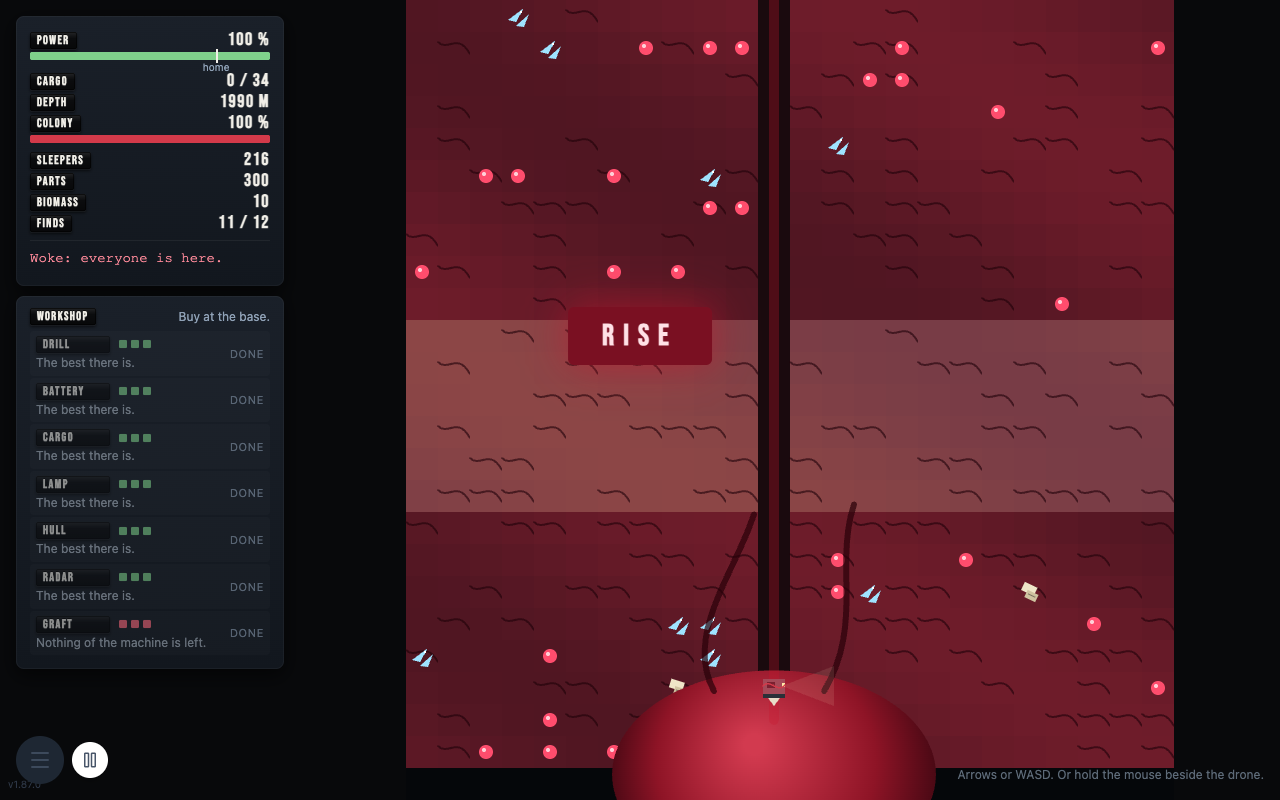
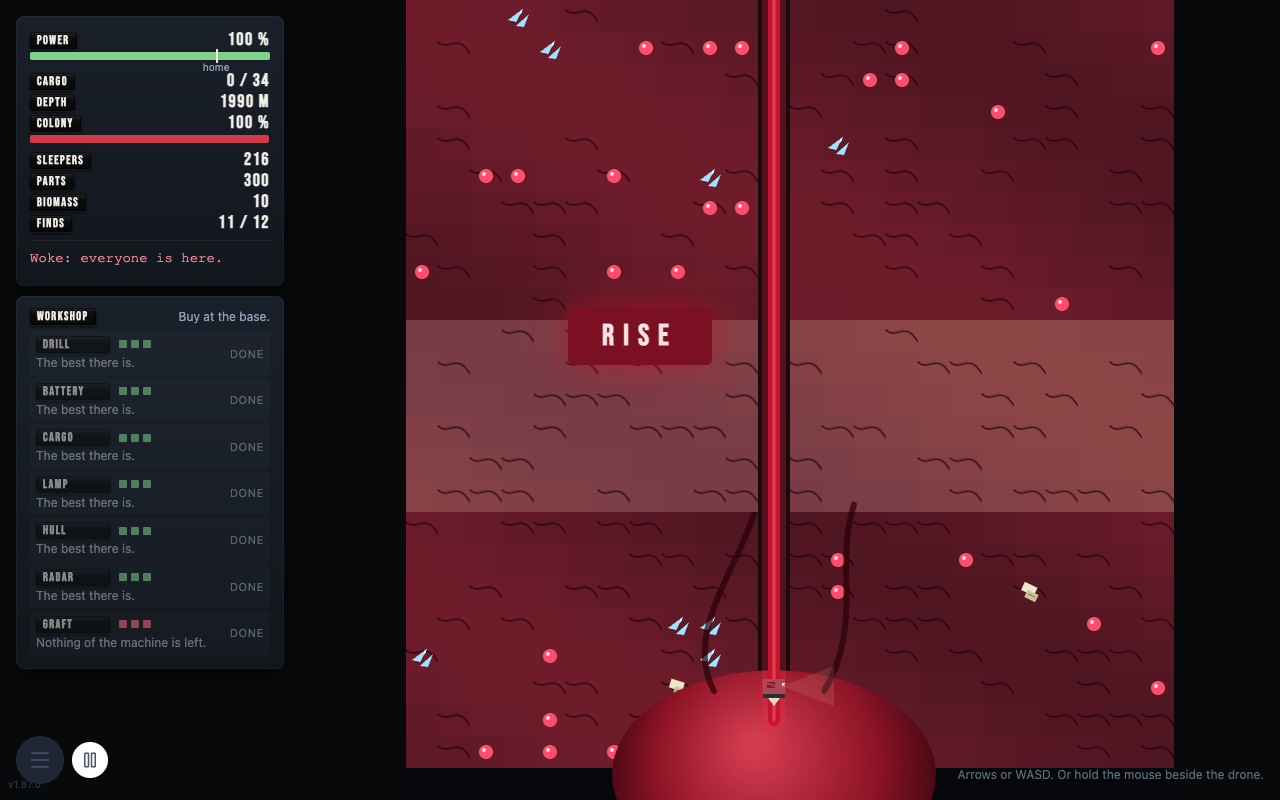
dig: the ending shows the pods emptying and the band down the shaft, the way up named from a side tunnel, colony drain doubles every 400 s

Changed region(s): [[0.3125, 0.0, 0.9375, 0.9688], [0.3125, 0.6562, 0.5312, 0.9688], [0.3125, 0.3125, 0.375, 0.4062]]

diff --git a/src/phase4d/render.js b/src/phase4d/render.js
@@ -73,9 +73,19 @@ export function createRenderer(canvas) {
         r.originX = Math.round(left + Math.max(0, (vw - left - W * TS) / 2));
         const p = dronePos(s);
         // the camera: the drone a little above the middle; the sky shown at the top
-        const want = Math.max(-8 * TS, Math.min((H + 1) * TS - vh, p.y * TS - vh * 0.42));
+        // at the end the camera goes up to the pods, then follows the red band down to the heart
+        let focusY = p.y;
+        if (s.ended) {
+            if (r.ending < 2.6) focusY = -3;
+            else {
+                const k = Math.min(1, (r.ending - 2.6) / 6);
+                focusY = -1 + (p.y + 1) * k;
+            }
+        }
+        const want = Math.max(-8 * TS, Math.min((H + 1) * TS - vh, focusY * TS - vh * 0.42));
         r.cam.y += (want - r.cam.y) * Math.min(1, dt * 6);
-        if (Math.abs(want - r.cam.y) > vh) r.cam.y = want;
+        if (Math.abs(want - r.cam.y) > vh && !(s.ended && r.ending > 2.6)) r.cam.y = want;
+        if (s.ended && r.ending > 2.6) r.cam.y = want;
         const camY = r.cam.y;
         const t = s.time;
         const deep = p.y * 5;                            // metres, roughly
@@ -170,18 +180,19 @@ export function createRenderer(canvas) {
         // ---- the red band at the end, from the base down the way the drone came
         if (s.ended) {
             r.ending += dt;
-            const k = Math.min(1, r.ending / 6);
+            const k = Math.max(0, Math.min(1, (r.ending - 2.6) / 6));
             const pts = [{ x: HOME_X, y: -1 }, ...s.trail.map((i) => ({ x: i % W, y: Math.floor(i / W) })), { x: s.x, y: s.y + 1 }];
             const n = Math.min(pts.length, Math.max(2, Math.ceil(pts.length * k)));
-            ctx.strokeStyle = `rgba(200,20,45,${0.55 + 0.25 * Math.sin(t * 3.2)})`;
-            ctx.lineWidth = 10; ctx.lineCap = 'round'; ctx.lineJoin = 'round';
+            ctx.lineCap = 'round'; ctx.lineJoin = 'round';
             ctx.beginPath();
             for (let i = 0; i < n; i++) {
                 const q = pts[i];
                 const qx = r.originX + q.x * TS + TS / 2, qy = q.y * TS + TS / 2 - camY;
                 if (i === 0) ctx.moveTo(qx, qy); else ctx.lineTo(qx, qy);
             }
-            ctx.stroke();
+            ctx.strokeStyle = 'rgba(255,40,70,0.25)'; ctx.lineWidth = 24; ctx.stroke();
+            ctx.strokeStyle = '#c8142d'; ctx.lineWidth = 12; ctx.stroke();
+            ctx.strokeStyle = `rgba(255,150,165,${(0.35 + 0.35 * Math.max(0, Math.sin(t * 3.2))).toFixed(3)})`; ctx.lineWidth = 3; ctx.stroke();
         }
 
         // ---- the dark: a circle of light around the drone; daylight near the top
@@ -308,7 +319,7 @@ export function createRenderer(canvas) {
         const cols = 24, pitch = 10;   // nine rows
         const wx = bx + (bw - cols * pitch) / 2, wy = top + 14;
         const dark = new Set(s.dark);
-        const emptied = s.ended ? Math.floor(Math.min(1, r.ending / 5) * SLEEPERS) : 0;
+        const emptied = s.ended ? Math.floor(Math.min(1, r.ending / 2.4) * SLEEPERS) : 0;
         for (let i = 0; i < SLEEPERS; i++) {
             const pod = i + 1;
             const cx = wx + (i % cols) * pitch, cy = wy + Math.floor(i / cols) * pitch;

diff --git a/src/phase4d/dig.js b/src/phase4d/dig.js
@@ -56,7 +56,7 @@ export const CHARGE_RATE = 0.6;         // share of the battery per second, at h
 export const UNLOAD_EVERY = 0.08;       // seconds a piece
 // ---- the colony -------------------------------------------------------------------------------
 export const DRAIN_BASE = 1 / 6;        // % a second at the start
-export const DRAIN_GROWS = 600;         // seconds: the drain doubles over this long
+export const DRAIN_GROWS = 400;         // seconds: the drain doubles over this long
 export const POD_EVERY = 3;             // seconds at 0 %
 export const LOST_ON_DEATH = 10;        // % of the reserve
 export const VOICE_FROM = 700;          // metres: below, the mind slips
@@ -221,6 +221,19 @@ function touchHeart(s) {
     say(s, 'Woke: everyone is here.', 'voice', 0);
 }
 
+/** Where the way up is, from a side tunnel: the nearest open tile above along this row's open ground. */
+export function shaftHint(s) {
+    for (let d = 1; d < W; d++) {
+        for (const dir of [-1, 1]) {
+            const x = s.x + dir * d;
+            let open = true;
+            for (let k = s.x + dir; k !== x + dir; k += dir) if (tileAt(s, k, s.y) !== T.AIR) { open = false; break; }
+            if (open && tileAt(s, x, s.y - 1) === T.AIR) return `Up only through open ground. The way up is to the ${dir < 0 ? 'left' : 'right'}.`;
+        }
+    }
+    return 'Up only through open ground.';
+}
+
 /** One try at a direction: start a move or a dig, or say why not. */
 function tryDir(s, dir) {
     const dx = dir === 'left' ? -1 : dir === 'right' ? 1 : 0;
@@ -236,7 +249,7 @@ function tryDir(s, dir) {
         s.act = { kind: 'move', tx, ty, t: 0, dur: MOVE_TIME, cost: MOVE_COST };
         return true;
     }
-    if (dy === -1) { say(s, 'Up only through open ground.', 'line', 8); return false; }
+    if (dy === -1) { say(s, shaftHint(s), 'line', 8); return false; }
     if (t === T.HEART) { touchHeart(s); return true; }
     const gate = gateOf(s, t, ty);
     if (gate) { say(s, gate, 'gate', 3); s.events.push({ type: 'gate' }); return false; }

diff --git a/src/phase4d/dig.test.js b/src/phase4d/dig.test.js
@@ -63,6 +63,15 @@ describe('the rules', () => {
         step(s, 0.05, {});
         expect(s.line.text).toBe('Turn back. Just enough power to fly home.');
     });
+    test('pressing up under rock in a side tunnel says where the way up is', () => {
+        const s = preparedState({ row: 10 });
+        s.y = 10;
+        s.tiles[10 * W + HOME_X + 1] = T.AIR; s.tiles[10 * W + HOME_X + 2] = T.AIR;
+        s.tiles[9 * W + HOME_X + 2] = T.STONE;
+        s.x = HOME_X + 2;
+        step(s, 0.05, { dir: 'up' });
+        expect(s.line.text).toBe('Up only through open ground. The way up is to the left.');
+    });
     test('the colony at 0 %: a pod goes dark every three seconds', () => {
         const s = newState(7);
         s.reserve = 0;

diff --git a/src/phase4d/index.js b/src/phase4d/index.js
@@ -275,7 +275,7 @@ export function init() {
             s.events.length = 0;
             sound?.update(depthM(s), dt, s.ended);
             if (s.ended && !s.risen && !riseShownAt) riseShownAt = s.time;
-            if (riseShownAt && !s.risen && s.time - riseShownAt > 5) ui.rise.hidden = false;
+            if (riseShownAt && !s.risen && s.time - riseShownAt > 9.5) ui.rise.hidden = false;
         }
         typeLine(dt);
         refreshPanel();

diff --git a/docs/superpowers/specs/2026-10-05-deep-dig.md b/docs/superpowers/specs/2026-10-05-deep-dig.md
@@ -112,6 +112,8 @@ v1.87.0, 2026-10-05, gren `deep-dig`. Kod i `src/phase4d/` (world.js, dig.js, au
 - Verkstaden visas hela tiden (man ser vad man sparar till), men går bara att köpa i vid basen. Hela ytan är basen (y = -1).
 - Priser 25 / 100 / 400 parts (inte 30 / 120 / 400): annars stod spelaren still vid 300 m.
 - Graft-priser 6 / 15 / 30 biomassa. BONE DRILL krävs för senorna över hjärtat (1 935 m).
+- Kolonins förbrukning fördubblas var 400:e s (inte bara "snabbare"): sent i spelet äter ett dyk på en minut en tredjedel av reserven, så malmen behövs även när verkstaden är slutköpt.
+- `Up only through open ground.` säger också åt vilket håll vägen upp är, från en sidotunnel.
 - Malm som inte finns (spökmalm) under 700 m: radarn visar den inte, så RADAR får en mening där nere.
 
 **Sim** (`node scripts/sim-dig.mjs`, frö 7, en rimlig spelare som dyker, bryter närmaste synliga malm, går hem på batteri eller full last, köper billigaste nyttiga, läser nästa grind i verkstaden):
@@ -123,24 +125,24 @@ v1.87.0, 2026-10-05, gren `deep-dig`. Kod i `src/phase4d/` (world.js, dig.js, au
    3    255 m      92    0     6       216     99 %       0
    4    295 m      90    0     7       216    100 %       0
    5    410 m      50    0     9       216     96 %       0
-   6    480 m      72    0    10       216     98 %       0
+   6    480 m      72    0    10       216     97 %       0
    7    505 m     209    0    11       216     99 %       0
-   8    550 m     295    0    11       216     91 %       0
-   9    645 m      77    0    12       216     94 %       0
-  10    695 m     265    0    12       216     92 %       0
-  11    710 m      57    0    13       216     99 %       0
-  12    810 m     125    0    14       216     95 %       0
-  13    830 m     353    0    14       216     91 %       0
-  14    955 m     281    0    15       216     98 %       0
-  15   1035 m     253    0    16       216     95 %       0
-  16   1035 m      44    0    17       216     93 %       0
-  17   1135 m     228    0    17       216     89 %       0
-  18   1220 m     236    0    18       216     86 %       0
-  19   1480 m     476    0    18       216     92 %       0
-  20   1805 m     532    8    18       216     85 %       0
-  21   1835 m     532    0    21       216     92 %       0
-  22   1835 m     540   39    21       216     97 %       0
+   8    550 m     295    0    11       216     89 %       0
+   9    645 m      77    0    12       216     93 %       0
+  10    695 m     265    0    12       216     90 %       0
+  11    710 m      57    0    13       216     98 %       0
+  12    810 m     125    0    14       216     94 %       0
+  13    830 m     353    0    14       216     89 %       0
+  14    955 m     281    0    15       216     97 %       0
+  15   1035 m     253    0    16       216     94 %       0
+  16   1035 m      44    0    17       216     90 %       0
+  17   1135 m     228    0    17       216     86 %       0
+  18   1220 m     236    0    18       216     81 %       0
+  19   1480 m     476    0    18       216     78 %       0
+  20   1805 m     532    8    18       216     75 %       0
+  21   1835 m     532    0    21       216     90 %       0
+  22   1835 m     540   39    21       216     96 %       0
   23   1930 m     540   66    21       216    100 %       0
-  24   2000 m     540   74    21       216     85 %       0
+  24   2000 m     540   74    21       216     78 %       0
 ```
 Första malm hemma 9 s, första uppgradering 10 s, alla tolv fynd, hjärtat 25,0 min (frö 11: 23,8 min). Längsta väntan på nya 25 m: 101 s. Inga sovande förlorade för den försiktiga spelaren. Den slarviga (`--careless`, ignorerar hemsignalen halva tiden) dör 4 gånger första minuten, kolonin når 0 % vid minut 2 och alla 216 är borta runt minut 12.

diff --git a/docs/playtests/2026-10-05-dig-build.md b/docs/playtests/2026-10-05-dig-build.md
@@ -7,13 +7,13 @@ Headless Chrome, 1280x800, muted, real key presses and clicks (`node scripts/pla
 | 01-start | Standing on the hatch under the ruins. | Dig down, left or right. | Yes: "Dig down. Bring ore home.", workshop with prices, 216 blue pod windows. |
 | 02-first-dive | Digging straight down, 40 m. A find: "A street sign. MARKET ST." | Keep going or mine the crystals beside me. | Yes, the lamp circle shows the crystals; parts went up by the find. |
 | 03-sideways | Mining a side tunnel; second find "A child's shoe." | One more tile or back. | Yes, POWER with the home mark. |
-| 04-home (first run) | Pressed up in a side tunnel. | Walk back to the shaft. | "Up only through open ground." Clear, but a beginner will hit it. Kept (it is the rule that makes the shaft matter). |
+| 04-home | Pressed up in a side tunnel. | Walk back to the shaft. | First run: only "Up only through open ground.", a beginner is stuck. Now: "... The way up is to the left." The rule stays (it makes the shaft matter). |
 | 06-mouse-dig | Holding the mouse under the drone: it digs down. | Same as keys. | Yes. |
 | long-060s | 280 m with a 40-battery drone: the bar is red at the home mark. | Home now. | Yes, but the first long run still died at 30 s ("Recovered. The cargo is gone."). Added the one-time line "Turn back. Just enough power to fly home." |
 | 07-war | Through the hard band at 300 m with DRILL 2: "Old rock. Nobody lived here." | Mine paper, push to 500 m. | Yes. HULL row says "Goes below 500 m." |
 | 08-machine | 720 m, the machine layer, ghost ore: "It was not there." | Trust the radar. | Yes; radar dots only on real ore. |
 | 09-flesh | 1 715 m in pulsing flesh with the bone drill, biomass in the panel, GRAFT row next: HEALING CELL. | Biomass home for grafts. | Yes; the colony bar is red (dreaming), pods red. |
-| 11-woke | Touched the heart: "Woke: everyone is here." The pods empty, the red band, RISE. | RISE. | Yes, RISE in the middle. |
+| 11a, 11b, 11-woke | Touched the heart: "Woke: everyone is here." | Nothing for 9 s, then RISE. | First run: the band was too dark and the camera stayed at the heart, so the pods emptying were never seen. Now the camera goes up to the pods (they empty from the top), then follows the red band down the shaft to the heart; RISE after. |
 | 12-unity | V · UNITY card. | None, the end. | Yes. |
 
 ## Grind and dead moments found, and what I did
